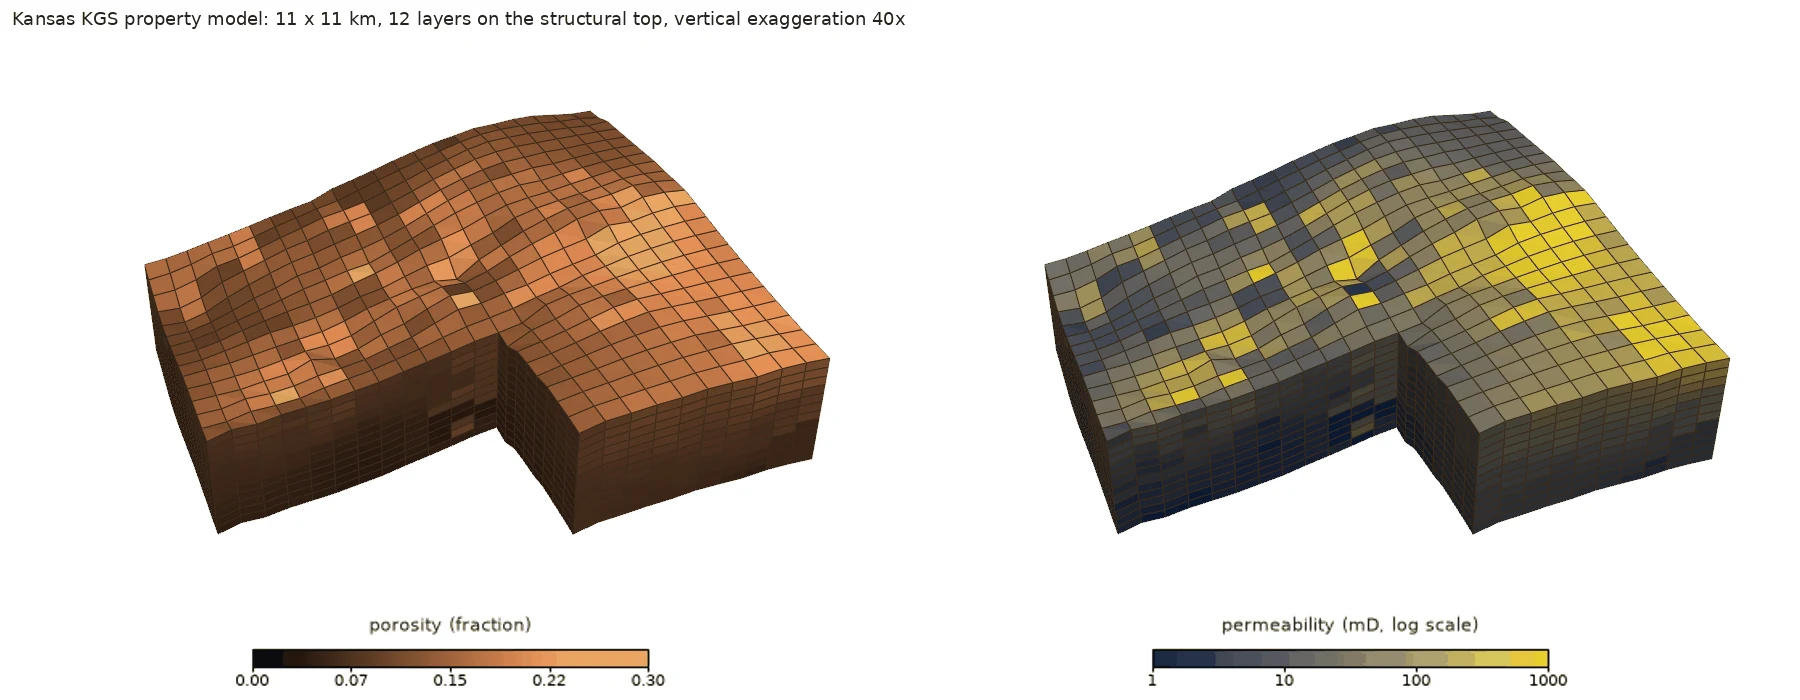
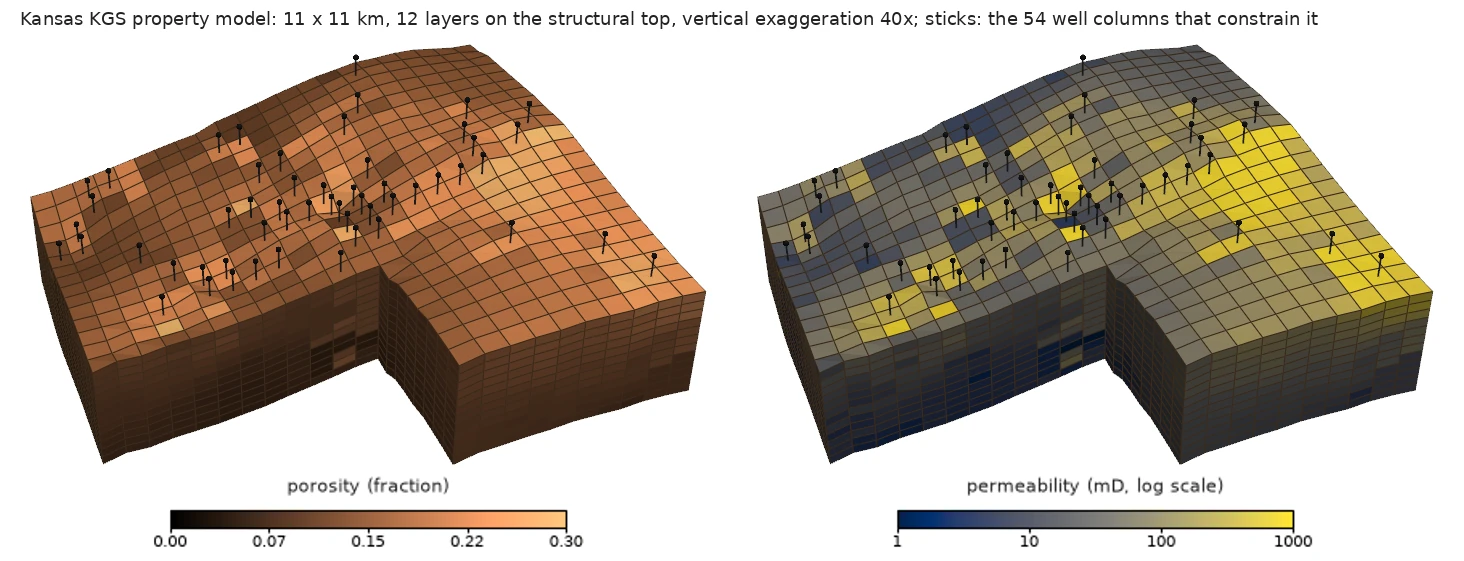
SubsurfiX: updated hero figure

diff --git a/projects.html b/projects.html
@@ -61,7 +61,7 @@
             <h3 class="has-icon"><a href="projects/SubsurfiX/index.html"><img class="proj-icon" src="projects/SubsurfiX/icon.png" width="44" height="44" style="width:44px;height:44px;margin:0" alt="">SubsurfiX <span aria-hidden="true">&rarr;</span></a></h3>
             <p>SubsurfiX from a folder of well logs to a 3D property model you can simulate on. Log QC, gap filling, well correlation, property modeling, and flow and heat simulation in one Rust engine, run from Python or the command line, with every filled value traceable.</p>
             <ul class="badges"><li><a href="https://pypi.org/project/subsurfix/"><img src="https://img.shields.io/pypi/v/subsurfix?color=orange" alt="PyPI version" height="20" loading="lazy"></a></li><li><a href="https://anaconda.org/conda-forge/subsurfix"><img src="https://img.shields.io/conda/vn/conda-forge/subsurfix?label=conda-forge&amp;color=green" alt="conda-forge version" height="20" loading="lazy"></a></li></ul>
-            <img src="projects/SubsurfiX/figures/hero_3d_porosity_model.webp" width="1400" height="875" loading="lazy" alt="3D porosity model built from 60 Kansas wells.">
+            <img src="projects/SubsurfiX/figures/hero_3d_porosity_model.webp" width="1464" height="561" loading="lazy" alt="3D porosity model built from 60 Kansas wells.">
             <div class="cite-box cite-line"><p>Lai, L.S.-H. (2026) SubsurfiX. Zenodo, https://doi.org/10.5281/zenodo.23832007</p></div>
           </article>
           <article class="card" style="--i:5">

diff --git a/projects/SubsurfiX/index.html b/projects/SubsurfiX/index.html
@@ -67,7 +67,7 @@
       </section>
 
       <figure class="teaser block">
-        <img src="figures/hero_3d_porosity_model.webp" width="1800" height="700" alt="3D porosity and permeability model built from 60 Kansas wells.">
+        <img src="figures/hero_3d_porosity_model.webp" width="1464" height="561" alt="3D porosity and permeability model built from 60 Kansas wells.">
         <figcaption class="fig-cap">3D property model from 60 Kansas wells (11 &times; 11 km, 12 layers, vertical exaggeration 40&times;), the end product of the log-to-model workflow. Left: porosity. Right: permeability (log scale), derived from porosity (k = 10<sup>&minus;1 + 14&phi;</sup> millidarcy, doubled in clean rock).</figcaption>
       </figure>
 
